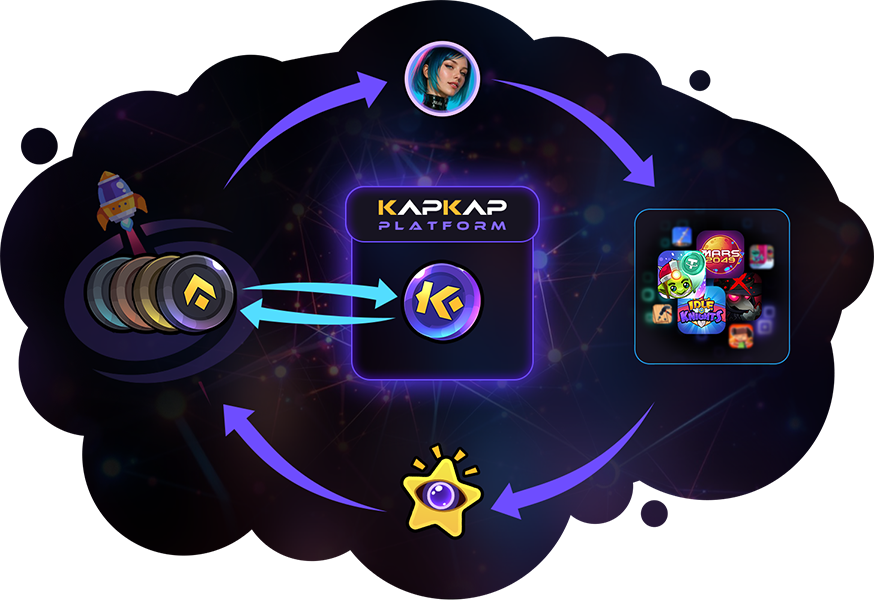
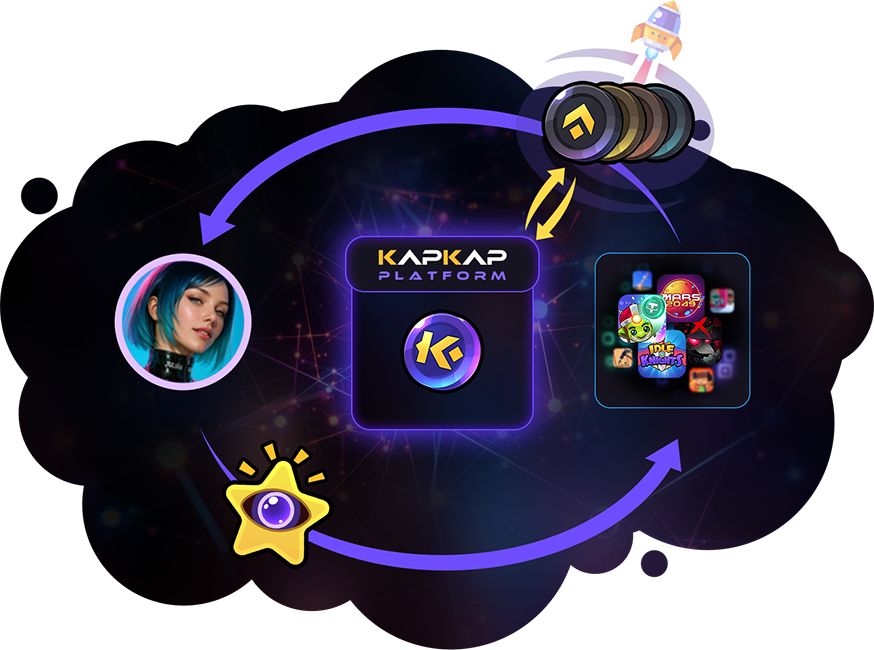
update

diff --git a/src/components/Home/roadmap.tsx b/src/components/Home/roadmap.tsx
@@ -13,7 +13,7 @@ export default function Roadmap() {
   const [aniItemClass, setAniItemClass] = useState<string>("opacity-0");
 
   const [roadMapData, setRoadMapData] = useState<any>(null);
-  const currentProcess = [0, 4];
+  const currentProcess = [1, 4];
 
   const handleInit = () => {
     const raws:string[] = Object.keys(t.raw('roadmap'));
@@ -42,6 +42,7 @@ export default function Roadmap() {
     handleInit();
 
     const winW = window.innerWidth;
+    let tween:any = null;
     if (winW < 768) {
       setAniTitleClass(_c => '')
       setAniItemClass(_c => '')
@@ -57,58 +58,81 @@ export default function Roadmap() {
         },
       }); 
 
+      /*
       gsap.to('.roadmap-title', {
         opacity: 0.2,
-        y: -60,
+        y: -50,
         scrollTrigger: {
           trigger:".roadmap-section",
-          start: 'top-=20% top',
+          start: 'top-=10% top',
           end: 'top+=20% top',
           scrub: true,
         },
       })
 
-      gsap.to('.roadmap-list', {
+      tween = gsap.to('.roadmap-list', {
         opacity: 0.2,
         y: -80,
         scrollTrigger: {
           trigger:".roadmap-section",
-          start: 'bottom-=10% center',
-          end: 'bottom+=10% top',
+          start: 'top+=500px top',
+          end: 'top+=900px top',
           scrub: true,
         },
       })
+
+      ScrollTrigger.refresh()
+      */
+    }
+
+    return () => {
+      // 清理动画和触发器，防止内存泄漏
+      if(tween) {
+        tween?.scrollTrigger?.kill()
+        tween?.kill()
+      }
     }
   }, []);
   
   return (
-    <section id="home-section-3" className="roadmap-section home-section-3 bg-[##060608] relative">
-      <div className="max-w-[1920px] mx-auto px-5 lg:px-18 2xl:px-24 pt-9 pb-24">
-        <div className={aniTitleClass + " animate__animated text-[20px] lg:text-[30px] font-ethnocentric-rg text-white leading-tight"}>
-          <div className="roadmap-title mx-auto inline-block border-b border-[#FEBD32]">{t('roadmap.title')}</div>
+    <section id="home-section-3" className="roadmap-section home-section-3 bg-[#1a0b1d] relative">
+      <div className="max-w-[1920px] section-box mx-auto px-5 lg:px-18 2xl:px-24 pt-9 pb-24 relative">
+        <div className="absolute top-0 left-0 z-0 w-full h-full flex flex-col">
+          <div className="relative z-1">
+            <img className="w-full" src="/images/bg_roadmap.jpg" />
+          </div>
+          <div className="flex-1 w-full relative z-0">
+            <img className="w-full h-full" src="/images/bg_roadmap_cover.jpg" />
+          </div>
         </div>
-        <div className="roadmap-list mt-15 text-[16px]">
-          {roadMapData != null && Object.keys(roadMapData).map((key:string, i) => (
-            <div key={i} className="relative z-1 pb-6">
-              {i < (Object.keys(roadMapData).length - 1) && <div className={"absolute top-0 left-[9px] w-[2px] h-full z-0 " + 
-                (currentProcess[0] > i || (currentProcess[0] == i && currentProcess[1] == (roadMapData[key]['sub'].length - 1)) ? 'bg-[#8D73FF]' : 'bg-[#4B436F]')}></div>}
-              <div className="flex items-center">
-                <div className={"relative z-1 border-[2px] bg-[#312a4d] rounded-full w-5 h-5 flex items-center justify-center " + (currentProcess[0] >= i ? 'border-[#8D73FF]' : 'border-[#4B436F]')}>
-                  {currentProcess[0] >= i && <div className="w-[10px] h-[10px] bg-[#ffbd2f] rounded-full"></div>}
-                </div>
-                <div className={aniItemClass + " animate__animated ml-2 md:ml-4 leading-none flex-1 " + (currentProcess[0] >= i ? 'text-[#DDD5FF]' : 'text-[#8A84A3]')}
-                  style={{animationDelay: i * 0.5 + 's'}}>{roadMapData[key].title}</div>
-              </div>
-              <div className={aniItemClass + " pl-6 animate__animated "} style={{animationDelay: i * 0.5 + 's'}}>
-                {roadMapData[key]['sub'].map((sub: string, j: number) => (
-                  <div key={j} className="ml-3 md:ml-6 leading-none flex items-center mt-3">
-                    <div className={"w-[10px] h-[10px] rounded-full " + (currentProcess[0] > i || (currentProcess[0] == i && currentProcess[1] >= j) ? 'bg-[#ffbd2f]' : 'bg-[#4B436F]')}></div>
-                    <div className={'flex-1 ml-3 ' + (currentProcess[0] > i || (currentProcess[0] == i && currentProcess[1] >= j) ? 'text-[#DDD5FF]' : 'text-[#8A84A3]')}>{sub}</div>
+        <div className="section-content relative z-1">
+          <div className={aniTitleClass + " animate__animated text-[20px] lg:text-[30px] font-ethnocentric-rg text-white leading-tight"}>
+            <div className="roadmap-title mx-auto inline-block border-b border-[#FEBD32]">{t('roadmap.title')}</div>
+          </div>
+          <div className="roadmap-list mt-15 text-[16px]">
+            {roadMapData != null && Object.keys(roadMapData).map((key:string, i) => (
+              <div key={i} className="relative z-1 pb-6">
+                {i < (Object.keys(roadMapData).length - 1) && <div className={"absolute top-0 left-[9px] w-[2px] h-full z-0 " + 
+                  (currentProcess[0] > i ? 'bg-[#8D73FF]' : 'bg-[#4B436F]')}></div>}
+                <div className="flex items-center">
+                  <div className={"relative z-1 border-[2px] bg-[#312a4d] rounded-full w-5 h-5 flex items-center justify-center " + (currentProcess[0] >= i ? 'border-[#8D73FF]' : 'border-[#4B436F]')}>
+                    {currentProcess[0] > i && <div className="w-[10px] h-[10px] bg-[#C973FF] rounded-full"></div>}
+                    {currentProcess[0] == i && <div className="w-[10px] h-[10px] bg-[#ffbd2f] rounded-full"></div>}
                   </div>
+                  <div className={aniItemClass + " animate__animated ml-2 md:ml-4 leading-none flex-1 " + (currentProcess[0] > i ? 'text-[#8D73FF]' : (currentProcess[0] == i ? 'text-[#DDD5FF]' : 'text-[#8A84A3]'))}
+                    style={{animationDelay: i * 0.5 + 's'}}>{roadMapData[key].title}</div>
+                </div>
+                <div className={aniItemClass + " pl-6 animate__animated "} style={{animationDelay: i * 0.5 + 's'}}>
+                  {roadMapData[key]['sub'].map((sub: string, j: number) => (
+                    <div key={j} className="ml-3 md:ml-6 leading-[1.25] flex items-center mt-3">
+                      <div className={"w-[10px] h-[10px] rounded-full " + (currentProcess[0] > i ? 'bg-[#C973FF]' : (currentProcess[0] == i && currentProcess[1] >= j ? 'bg-[#FEBD32]' : 'bg-[#4B436F]'))}></div>
+                      <div className={'flex-1 ml-3 ' + (currentProcess[0] > i ? 'text-[#8D73FF]' : (currentProcess[0] == i && currentProcess[1] >= j ? 'text-[#DDD5FF]' : 'text-[#8A84A3]'))}>{sub}</div>
+                    </div>
                 ))}
+                </div>
               </div>
-            </div>
-          ))}
+            ))}
+          </div>
         </div>
       </div>
     </section>

diff --git a/src/components/Home/ecosystem.tsx b/src/components/Home/ecosystem.tsx
@@ -87,10 +87,10 @@ export default function Ecosystem() {
             <div className="max-w-[860px] mx-auto relative">
               <img className="eco-img w-full block" src="/images/eco_illus.png" alt="" />
               
-              <div className="font-univia-pro-bold absolute top-[20%] left-[40%] md:top-[20%] md:left-[45%] text-[#CCA6FF] text-[12px] md:text-[20px] 2xl:text-[24px] w-[20%] md:w-[10%] text-center">{t('ecosystem.user')}</div>
-              <div className="font-univia-pro-bold absolute top-[63%] left-[61.5%] md:top-[63%] md:left-[71.5%] text-[#FEBD32] text-[12px] md:text-[20px] 2xl:text-[24px] w-[35%] md:w-[20%] text-center">{t('ecosystem.allApps')}</div>
-              <div className="font-univia-pro-bold absolute top-[63%] left-[3.5%] md:top-[63%] md:left-[7.5%] text-[#FEBD32] text-[12px] md:text-[20px] 2xl:text-[24px] w-[35%] md:w-[20%] text-center">{t('ecosystem.sTokens')}</div>
-              <div className="font-univia-pro-bold absolute top-[92%] left-[32.5%] md:top-[90%] md:left-[40%] text-[#FEBD32] text-[12px] md:text-[20px] 2xl:text-[24px] w-[35%] md:w-[20%] text-center">{t('ecosystem.aTokens')}</div>
+              <div className="font-univia-pro-bold absolute top-[60%] left-[10%] md:top-[60%] md:left-[15.5%] text-[#CCA6FF] text-[12px] md:text-[20px] 2xl:text-[24px] w-[20%] md:w-[10%] text-center">{t('ecosystem.user')}</div>
+              <div className="font-univia-pro-bold absolute top-[64%] left-[60%] md:top-[63%] md:left-[67%] text-[#FEBD32] text-[12px] md:text-[20px] 2xl:text-[24px] w-[35%] md:w-[20%] text-center">{t('ecosystem.allApps')}</div>
+              <div className="font-univia-pro-bold absolute top-[25%] left-[56%] md:top-[25%] md:left-[61.5%] text-[#FEBD32] text-[12px] md:text-[20px] 2xl:text-[24px] w-[35%] md:w-[20%] text-center">{t('ecosystem.sTokens')}</div>
+              <div className="font-univia-pro-bold absolute top-[88%] left-[13%] md:top-[88%] md:left-[21%] text-[#FEBD32] text-[12px] md:text-[20px] 2xl:text-[24px] w-[35%] md:w-[20%] text-center">{t('ecosystem.aTokens')}</div>
             </div>
           </div>
         </div>

diff --git a/src/components/Header.tsx b/src/components/Header.tsx
@@ -169,19 +169,18 @@ export default function Header(props:Props) {
           <Link href="/"><img className="w-[182px] hidden md:block" src="/images/logo.png" alt="logo" /></Link>
           <div className="w-full md:w-auto flex md:items-center flex-wrap">
             <menu className="w-full md:w-auto md:flex items-center my-20 md:my-0 ">
-              {pathname != "/" ? (
-                <Link href="/" className='block md:inline text-xl md:mr-8 cursor-pointertext-white hover:text-[#8D73FF] mt-6 md:mt-0'>
-                  <span className="text-xl">{t('menu.main')}</span>
-                </Link>
-              ) : 
-              <>
+              <Link href="/" className='block md:inline text-xl md:mr-8 cursor-pointertext-white hover:text-[#8D73FF] mt-6 md:mt-0'>
+                <span className="text-xl">{t('menu.main')}</span>
+              </Link>
+              {/*
                 <div onClick={() => handleClick(0)} className={'block md:inline text-xl mr-8 cursor-pointer mt-6 md:mt-0 ' + (activeIdx == 0 ? ' active-menu text-[#8D73FF]' : ' text-white hover:text-[#8D73FF]')}>
                   <span className="text-xl">{t('menu.introduce')}</span>
                 </div>
                 <div onClick={() => handleClick(3)} className={'block md:inline text-xl mr-8 cursor-pointer mt-6 md:mt-0 ' + (activeIdx == 3 ? ' active-menu text-[#8D73FF]' : ' text-white hover:text-[#8D73FF]')}>
                   <span className="text-xl">{t('menu.roadmap')}</span>
                 </div>
-              </>}
+              </>
+              */}
               <Link href="/explore" className='block md:inline text-xl mr-8 cursor-pointertext-white hover:text-[#8D73FF] mt-6 md:mt-0'>
                   <span className="text-xl">{t('menu.explore')}</span>
               </Link>

diff --git a/src/app/explore/page.tsx b/src/app/explore/page.tsx
@@ -227,8 +227,8 @@ export default function Explore() {
           
           <div className="py-12">
             <div className="pb-6">
-              <div className="font-ethnocentric-rg text-white text-[22px] md:text-[36px] 2xl:text-[40px]">{t('explore.upcoming')}</div>
-              <div className="mt-4 text-[#8D73FF] text-[18px] md:text-[24px] leading-0">{t('explore.upcomingDesc')}</div>
+              <div className="inline-block font-ethnocentric-rg text-white text-[22px] md:text-[36px] 2xl:text-[40px] border-b border-[#FEBD32]">{t('explore.upcoming')}</div>
+              <div className="mt-3 text-[#8D73FF] text-[18px] md:text-[24px]">{t('explore.upcomingDesc')}</div>
             </div>
             {loading ? 
               Array.from({ length: 2 }).map((_, i) => (
@@ -243,7 +243,7 @@ export default function Explore() {
               { appList != null && appList['upcoming']?.length && (
               <>
               <Swiper
-                className="live-swiper explore-swiper !h-auto"
+                className="upcoming-swiper explore-swiper !h-auto"
                 onSwiper={(swiper) => (upcomingSwiperRef.current = swiper)}
               >
                 {Array.from({ length: Math.ceil(appList['upcoming'].length / pageLimit) }).map((_, i) => (

diff --git a/src/app/globals.css b/src/app/globals.css
@@ -107,13 +107,6 @@ body {
   font-family: "UniviaPro-Regular", Arial, Helvetica, sans-serif;
 }
 
-.roadmap-section {
-  background-image: url('/images/bg_roadmap.jpg');
-  background-size: cover;
-  background-position: center top;
-  background-repeat: no-repeat;
-}
-
 .eco-section .eco-img-box {
   background-image: url('/images/bg_eco.jpg');
   background-size: cover;

diff --git a/src/app/page.tsx b/src/app/page.tsx
@@ -6,8 +6,12 @@ import Feature from '@/components/Home/feature';
 import Main from '@/components/Home/main';
 import Other from '@/components/Home/other';
 import Roadmap from '@/components/Home/roadmap';
+import { useEffect } from 'react';
 
 export default function Home() {
+  useEffect(() => {
+    window.scrollTo(0, 0);
+  }, [])
 
   return (
     <main className="">
